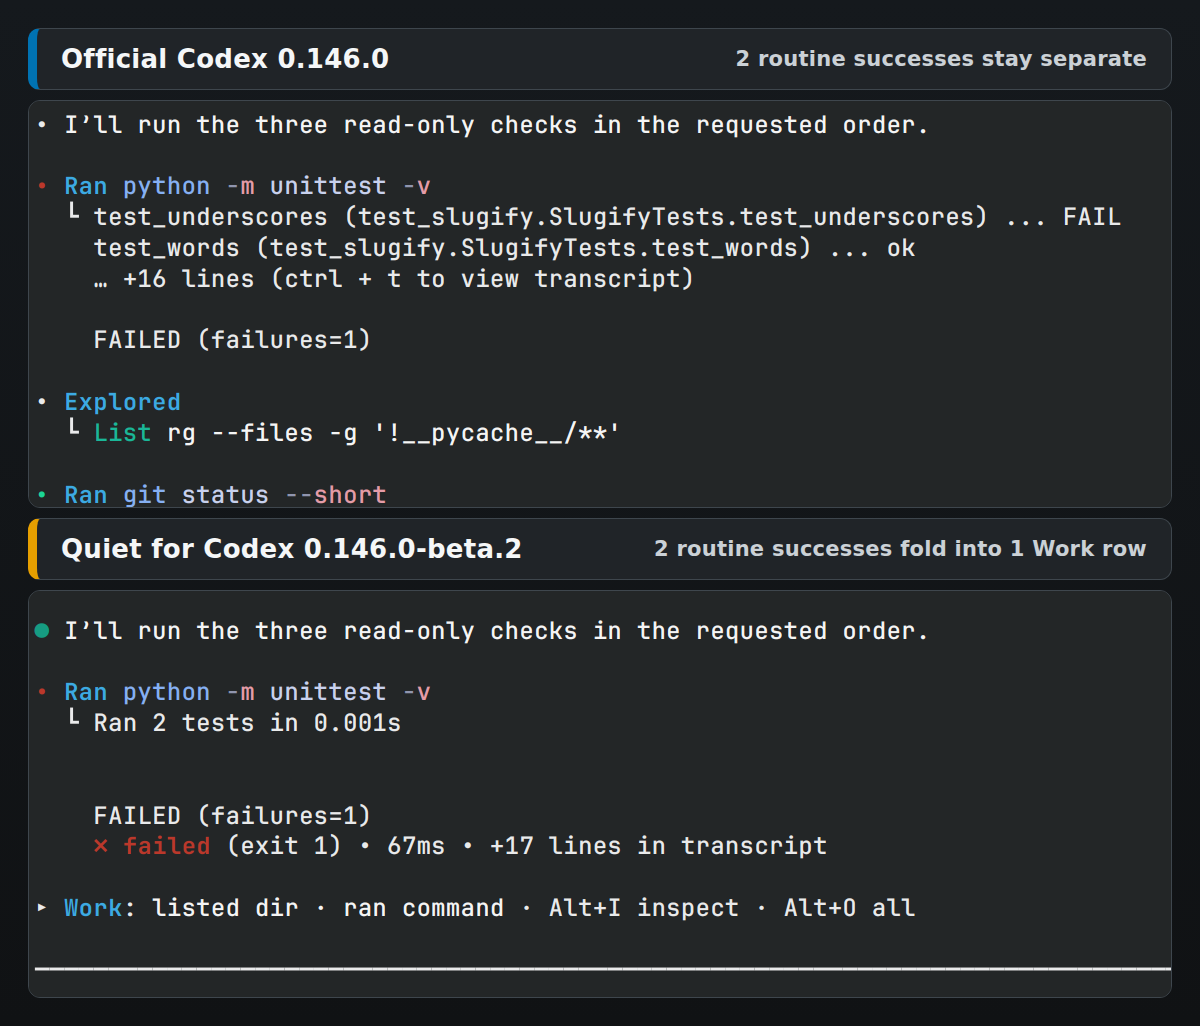
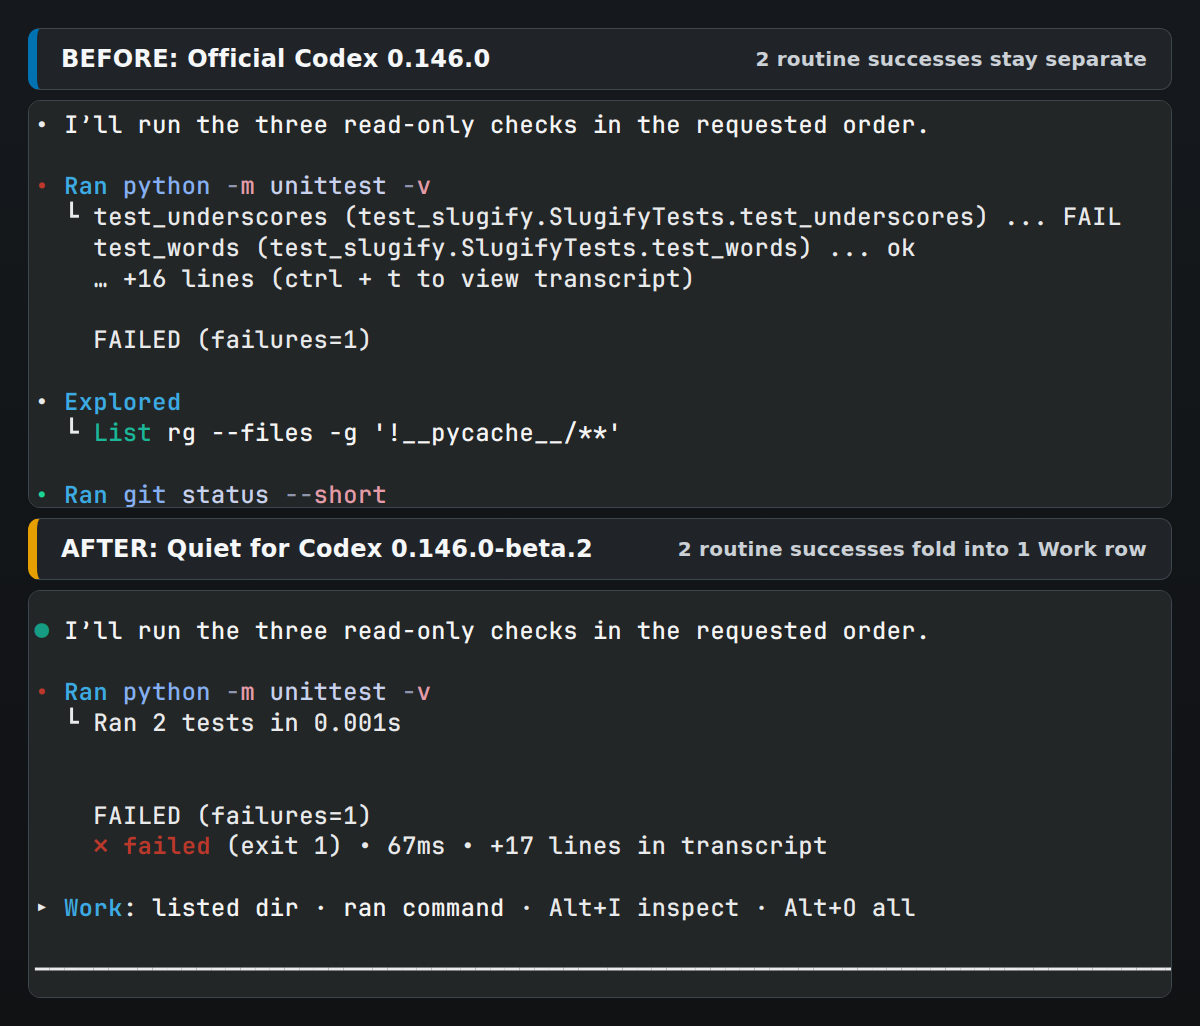
Make the Codex comparison explicitly before and after

diff --git a/README.md b/README.md
@@ -21,11 +21,38 @@ and terminal geometry. It compares completed-work presentation only; both
 captures were taken in alternate-screen mode. It does not claim faster
 execution, fewer tool calls, or lower token use.
 
-![Official Codex shows a failed unit test followed by two successful shell calls as separate blocks. Quiet for Codex keeps the failed test visible and folds the two successful calls into one Work row.](docs/assets/official-vs-quiet.png)
+### Before: Official Codex
+
+```text
+• Ran python -m unittest -v
+  └ FAILED (failures=1)
+
+• Explored
+  └ List rg --files
+
+• Ran git status --short
+  └ (no output)
+```
+
+### After: Quiet for Codex
+
+```text
+• Ran python -m unittest -v
+  └ FAILED (failures=1)
+    ✗ failed (exit 1)
+      details remain in transcript
+
+▸ Work: listed dir · ran command
+  Alt+I inspect · Alt+O all
+```
 
 Official Codex shows the two routine successes separately. Quiet folds those
 same eligible calls into one `Work` row while keeping the failed test and its
 exit status visible.
+
+### Live TUI capture
+
+![Before, Official Codex shows a failed unit test followed by two successful shell calls as separate blocks. After, Quiet for Codex keeps the failed test visible and folds the two successful calls into one Work row.](docs/assets/official-vs-quiet.png)
 
 ### Exact details on demand
 
